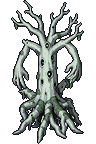
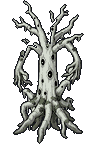
The Treant back to Ryan's round-eight pick (14 October: its twig claws were right, two image-to-image passes had turned them human), its pale drips greened through the edit model for the picker; a lesson recorded in the to-do: chain from the pick he liked, send colour-only changes through the edit m

diff --git a/docs/todo.md b/docs/todo.md
@@ -62,7 +62,7 @@ bible's section 12; the order of work is `docs/status.md`. Never the same item i
 ## Art
 
 - [x] Ryan's picks of the edit model's fixes cut (13 October): both Gels' maws, the Ghost's painted flame, the Salamander's flame frill, the Dire Wolf's mane, the Goblin's grip (still not right, his note), the Magma Golem eyes only, the Mandragora brighter and leafier (its white holes keyed, `--holes 100`), the Sandworm without eyes
-- [ ] Ryan picks the eleventh round on the foe picker (14 October): the Treant's arms ending in bare twigs instead of hands (`treant_img60c`, image to image from his pick), the Thief chibi with stubby knives rendered fresh (`thief_chibi_takesM`; three image-to-image passes kept the source's blade length). Then his batch of cutting notes on the lineup, grouped by cause, the cutter changed where a cause repeats, every sprite recut by the same rules
+- [ ] Ryan picks the eleventh round on the foe picker (14 October): the Treant of his round-eight pick (its twig claws were right; two image-to-image passes had turned them human, so it is back in the game) with its pale drips greened by the edit model (`treant_mossfix`), the Thief chibi with stubby knives rendered fresh (`thief_chibi_takesM`; three image-to-image passes kept the source's blade length). Then his batch of cutting notes on the lineup, grouped by cause, the cutter changed where a cause repeats, every sprite recut by the same rules
 - [x] The pockets Ryan named recut (13 October): under the Goblin's sword arm, between the Lancer's spear and leg, between the White Mage's staff and leg (`--holes-tol 8` spares an off-white robe)
 - [x] Ryan picked from the Treant's and the Needler's new takes (13 October): Treant 8 and Needler 7, each with a further round
 - [ ] New foe types from the candidates Ryan marked, once he decides them (section 12)
